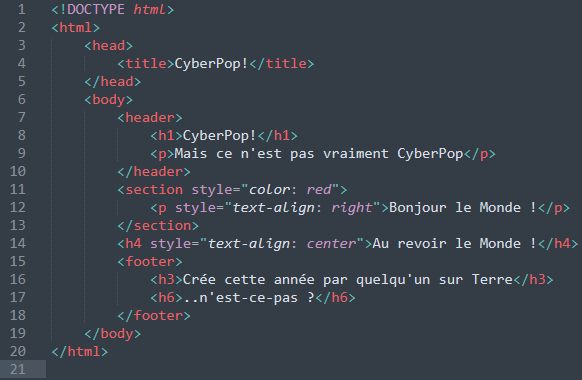
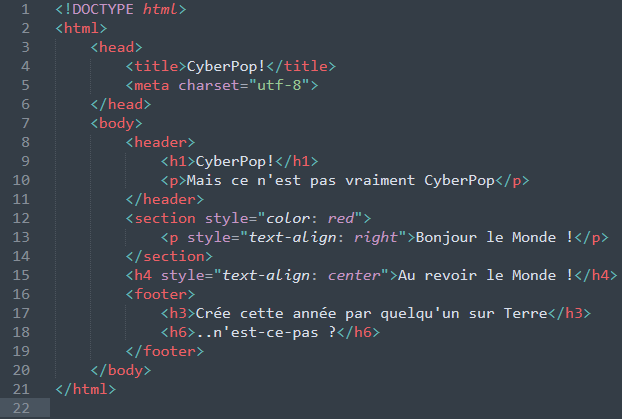
Fixes two lessons in French & bg.jpg usage (FR) Second HTML lesson's example now shows up properly (charset) (FR) Second CSS lesson's images basically now exist In lessons, padding is mostly bigger, now dependent on screen size Every usage of bg.jpg as background-image has been fixed

Changed region(s): [[0.0928, 0.0, 0.9897, 0.9553], [0.0, 0.0, 0.0619, 0.9842]]

diff --git a/fr/web-dev/html/headings-sections-attributes.html b/fr/web-dev/html/headings-sections-attributes.html
@@ -23,6 +23,8 @@
 
 			<p>Mais ! Avant que l'on parle de ce qui a été mentionné il y a un instant, on va parler de deux éléments très faciles à comprendre qui sont dans ce fichier HTML, plus précisément <span class="highlight">&lt;header&gt;</span>, entête ou haut de page en français et <span class="highlight">&lt;footer&gt;</span>, bas de page en français.<br>L'élément <span class="highlight">&lt;header&gt;</span> est fait pour posséder toutes les choses qui devraient apparaître en haut de la page, pendant que <span class="highlight">&lt;footer&gt;</span> est fait pour posséder les choses qui devraient apparaître en bas de la page. Si vous avez visité pas mal de sites web, pour avez peut-être déjà remarqué que le haut de page et le bas de page sont similaires à travers toutes les pages web d'un même site web !</p>
 
+			<p>L'élément <span class="highlight">&lt;meta&gt;</span> dans l'élément <span class="highlight">&lt;head&gt;</span> de la page est pour dire au navigateur web quel encodage de charactères utiliser. Je l'exclus généralement des exemples car c'est quelque chose d'assez hors-sujet, mais cette page utilise des accents, qui seraient mal interprétés sans cet élément <span class="highlight">&lt;meta&gt;</span> !</p>
+
 			<p>Parlons maintenant des titres. Il y a 6 différents éléments titres en HTML, qui vont de <span class="highlight">&lt;h1&gt;</span> à <span class="highlight">&lt;h6&gt;</span>, chacun d'entre eux rend le texte gras et change sa taille (différement) sans le besoin d'utiliser du CSS.<br><span class="highlight">&lt;h1&gt;</span> rend le texte assez gros, <span class="highlight">&lt;h4&gt;</span> ne change pas vraiment la taille du texte pendant que <span class="highlight">&lt;h6&gt;</span> le rend petit. Et bien sûr, tout ça rend le texte gras.</p>
 
 			<p>Place à <span class="highlight">&lt;section&gt;</span>. On peut dire que cet élément est une boîte de n'importe quelle taille dans laquelle vous pouvez mettre n'importe quoi et que vous pouvez placer n'importe où. Vous pouvez mettre une <span class="highlight">&lt;section&gt;</span> dans une autre <span class="highlight">&lt;section&gt;</span>, ou vous pouvez en placer une dans le haut ou bas de page ! Simplement à l'intérieur de l'élément <span class="highlight">&lt;body&gt;</span>, c'est cool aussi.</p>

diff --git a/lessons.css b/lessons.css
@@ -1,6 +1,6 @@
 #lesson {
 	display: inline-block;
-	padding: 0 150px;
+	padding: 0px 20%;
 	font-size: 20px;
 	background-color: #0F0F0F;
 	border-bottom: 1px solid;
@@ -33,7 +33,7 @@
 }
 
 .other-lessons {
-	background-image: url(../resources/bg.jpg);
+	background-image: url(./resources/bg.jpg);
 	display: flex;
 	padding: 20px;
 }

diff --git a/main-page.css b/main-page.css
@@ -3,7 +3,7 @@ a {
 }
 
 .lessons {
-	background-image: url(../resources/bg.jpg);
+	background-image: url(./resources/bg.jpg);
 	border: solid 1px;
 	margin: 20px;
 }

diff --git a/fr/web-dev/html/headings-sections-attributes-example.html b/fr/web-dev/html/headings-sections-attributes-example.html
@@ -2,6 +2,7 @@
 <html>
 	<head>
 		<title>CyberPop!</title>
+		<meta charset="utf-8">
 	</head>
 	<body>
 		<header>
